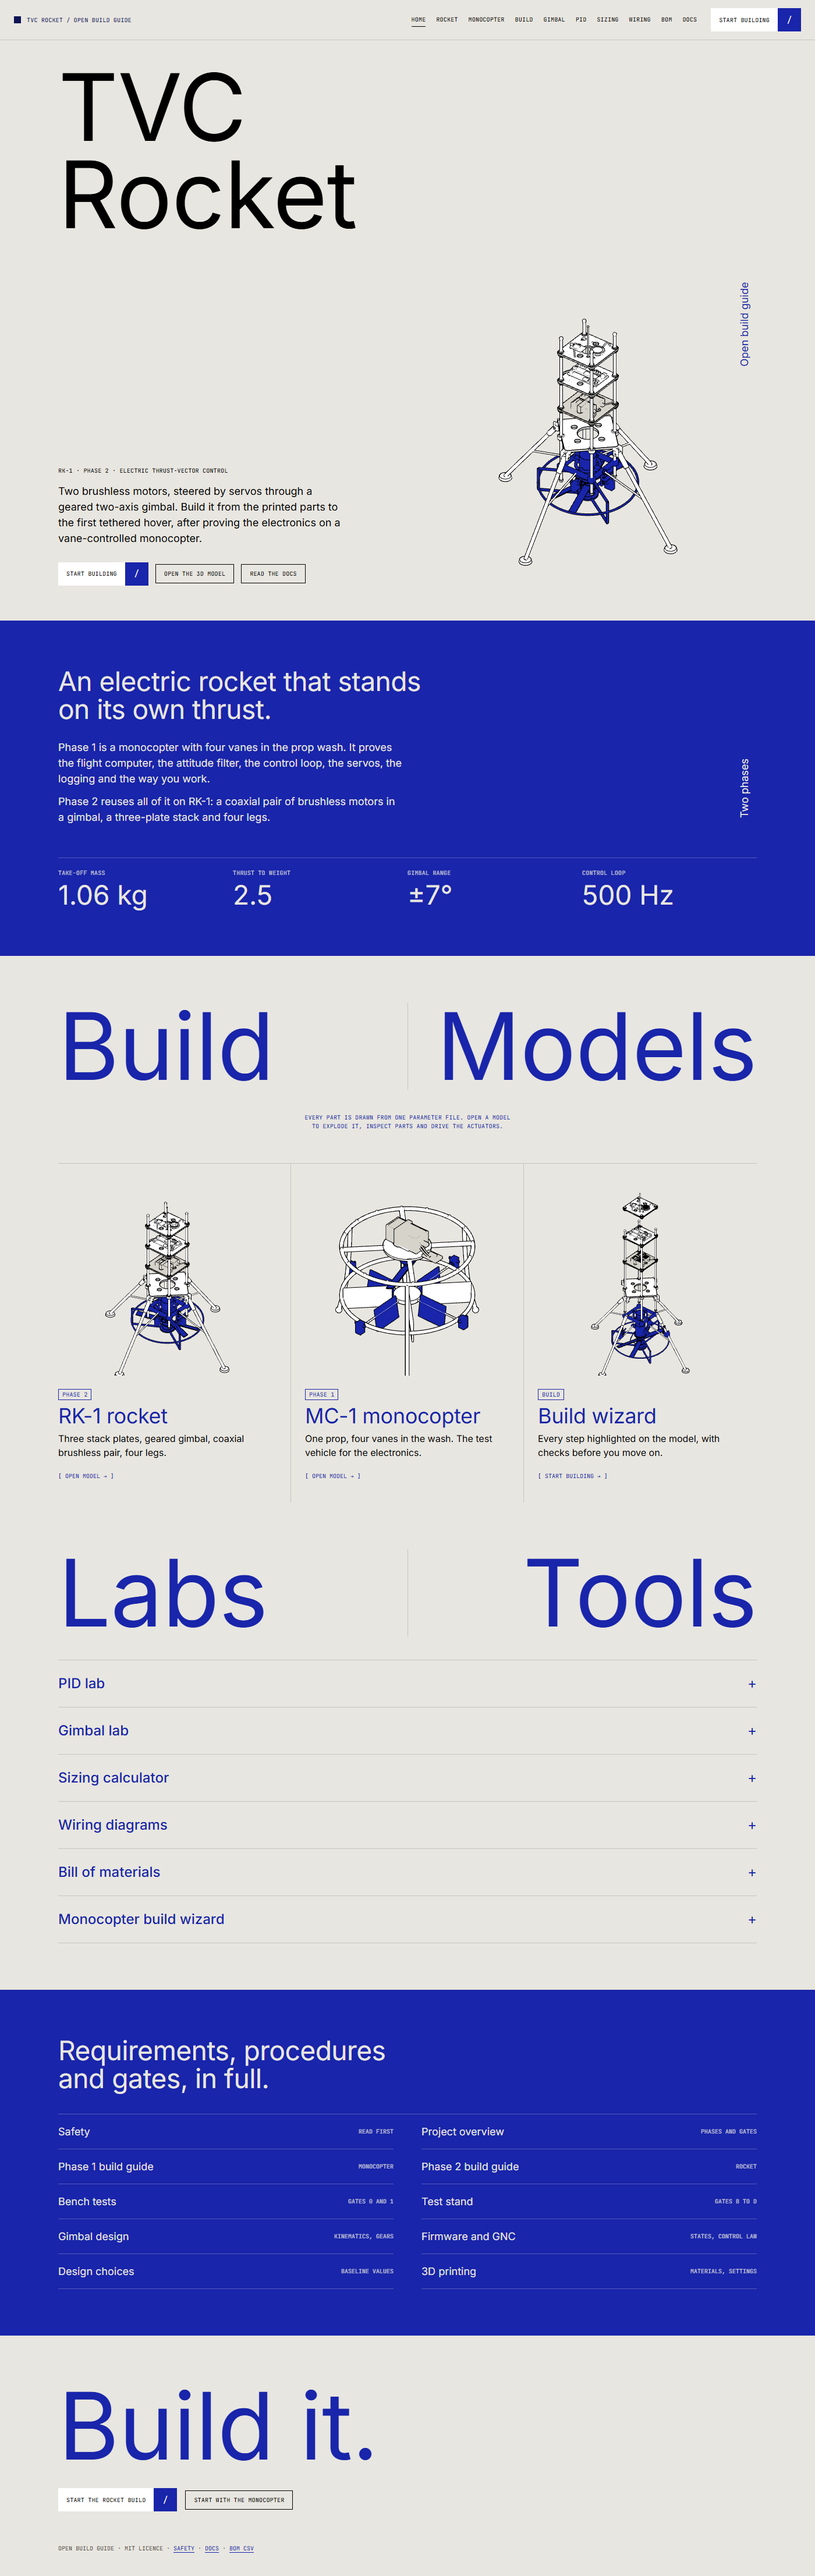
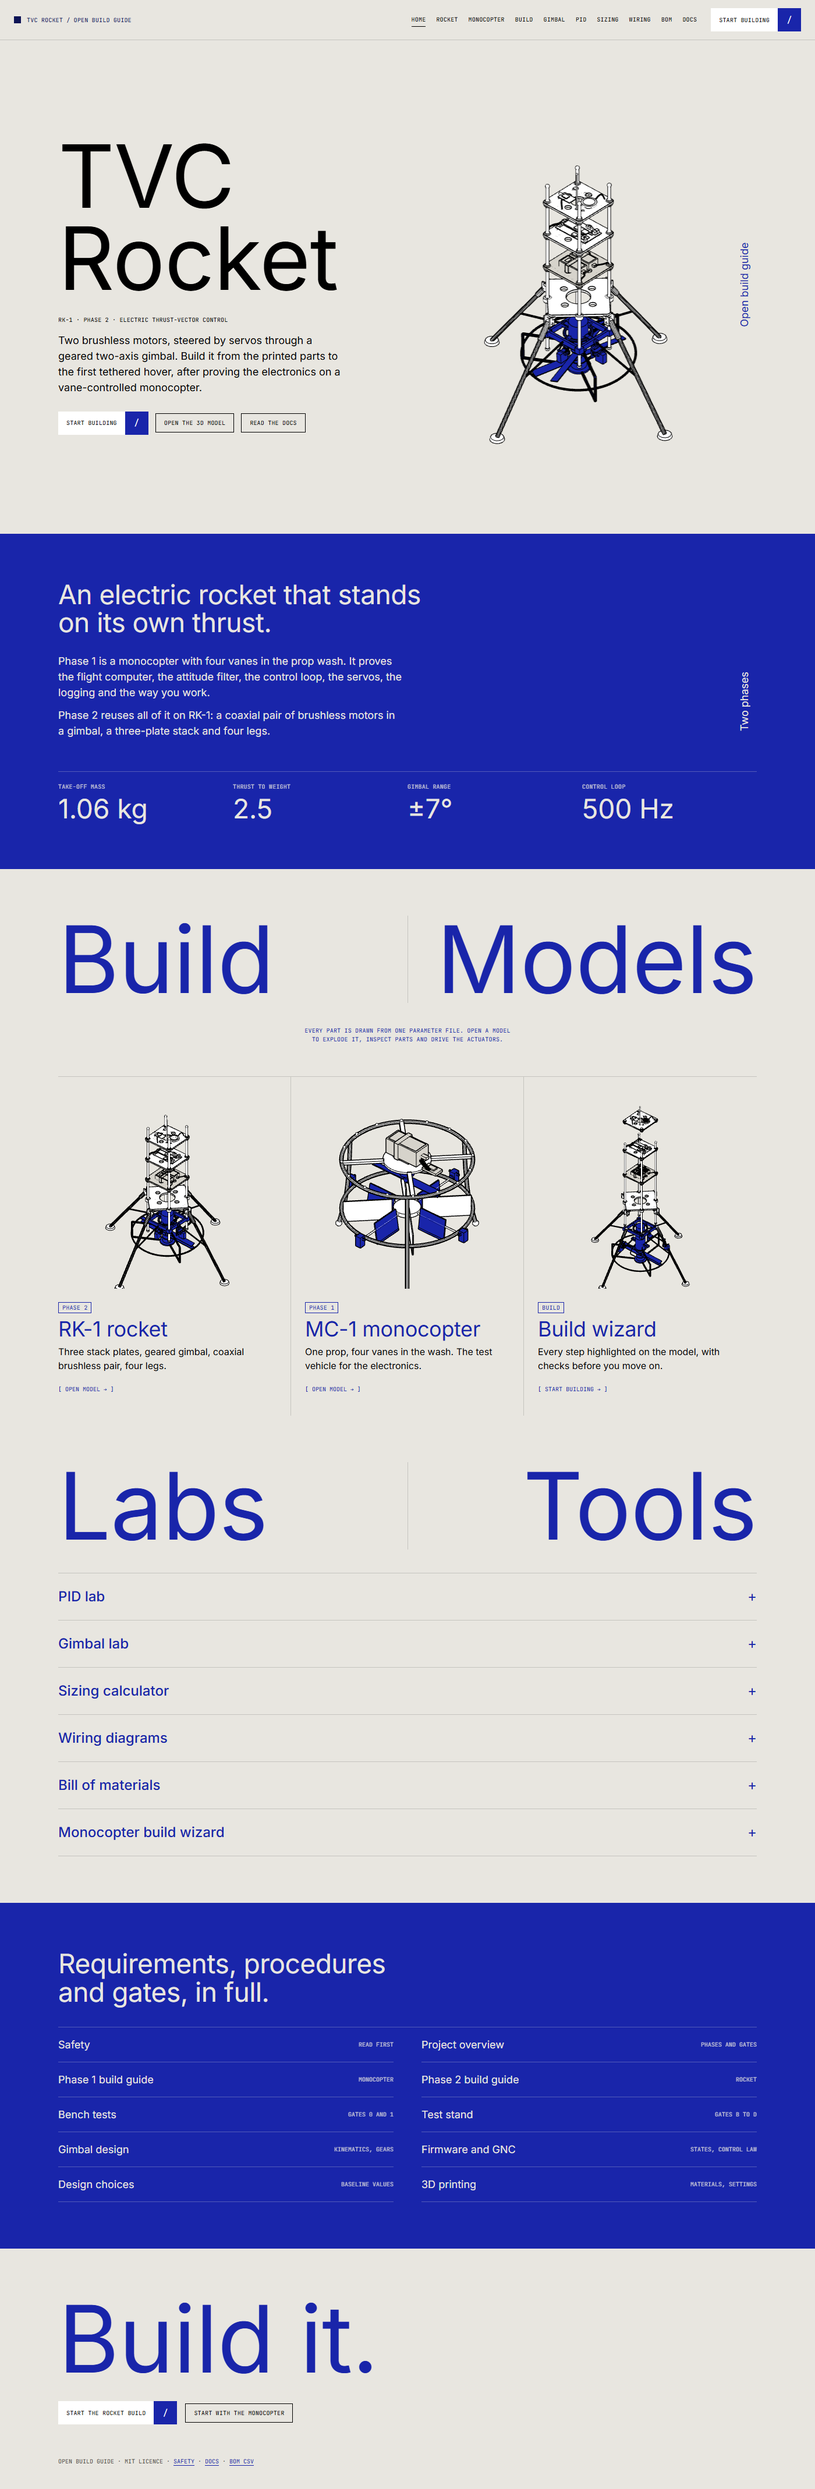
perf: smooth home page; hero beside headline; free viewer camera
- Home drawings render only when visible; cards render once; hero capped at 24 fps; lighter geometry for the drawings
- Hero model sits beside the headline
- Viewer: orbit below the ground, pan, zoom to cursor, focus on the selected part, quick views (gimbal, motors, underside, stack)

diff --git a/index.html b/index.html
@@ -23,21 +23,19 @@
 </header>
 
 <section class="band hero">
-  <div class="in">
-    <h1 class="display">TVC<br>Rocket</h1>
-    <div class="side-label">Open build guide</div>
-    <div class="hero-grid">
-      <div>
-        <div class="mono">RK-1 · Phase 2 · electric thrust-vector control</div>
-        <p class="lede">Two brushless motors, steered by servos through a geared two-axis gimbal. Build it from the printed parts to the first tethered hover, after proving the electronics on a vane-controlled monocopter.</p>
-        <div class="actions">
-          <a class="cta" href="web/assembly.html?model=rocket">Start building<i>/</i></a>
-          <a class="btn" href="web/rocket.html">Open the 3D model</a>
-          <a class="btn" href="web/doc.html?p=docs/README.md">Read the docs</a>
-        </div>
+  <div class="in hero-row">
+    <div class="hero-copy">
+      <h1 class="display">TVC<br>Rocket</h1>
+      <div class="mono">RK-1 · Phase 2 · electric thrust-vector control</div>
+      <p class="lede">Two brushless motors, steered by servos through a geared two-axis gimbal. Build it from the printed parts to the first tethered hover, after proving the electronics on a vane-controlled monocopter.</p>
+      <div class="actions">
+        <a class="cta" href="web/assembly.html?model=rocket">Start building<i>/</i></a>
+        <a class="btn" href="web/rocket.html">Open the 3D model</a>
+        <a class="btn" href="web/doc.html?p=docs/README.md">Read the docs</a>
       </div>
-      <div class="iso-hero" id="hero"></div>
     </div>
+    <div class="iso-hero" id="hero"></div>
+    <div class="side-label">Open build guide</div>
   </div>
 </section>
 
@@ -122,6 +120,7 @@
 
 <script type="module">
 import { createIsoStage } from './src/common/iso.js';
+import { setQuality } from './src/common/kit.js';
 import { buildRocket } from './src/models/rocket.js';
 import { buildMonocopter } from './src/models/monocopter.js';
 
@@ -129,18 +128,19 @@ document.querySelectorAll('.acc-item > button').forEach((b) => b.addEventListene
   const it = b.parentElement; const open = it.classList.toggle('open'); b.querySelector('i').textContent = open ? '×' : '+';
 }));
 
+setQuality(0.5);
 const rocket = () => { const m = buildRocket(); m.setGimbal(4, -3); m.setThrottle(0.4); return m; };
 let ready = 0;
 const mark = () => { if (++ready === 4) window.__ready = true; };
-createIsoStage(document.getElementById('hero'), rocket(), { azimuth: 38, spin: 3, zoom: 1.35, outline: 1.2, hide: ['test-stand'], target: [0, 275, 0] });
+createIsoStage(document.getElementById('hero'), rocket(), { azimuth: 38, spin: 4, fps: 24, zoom: 1.6, outline: 0.9, hide: ['test-stand'], target: [0, 275, 0] });
 mark();
 const make = (el, kind) => {
-  if (kind === 'rocket') return createIsoStage(el, rocket(), { azimuth: 40, zoom: 1.6, hide: ['test-stand'], target: [0, 275, 0] });
+  if (kind === 'rocket') return createIsoStage(el, rocket(), { azimuth: 40, zoom: 1.6, isStatic: true, maxDpr: 1.5, hide: ['test-stand'], target: [0, 275, 0] });
   if (kind === 'monocopter') {
     const m = buildMonocopter(); m.setThrottle(0.3); m.setControl({ roll: 0.4, pitch: -0.25, yaw: 0.1 });
-    return createIsoStage(el, m, { azimuth: 40, zoom: 1.45, target: [0, 135, 0] });
+    return createIsoStage(el, m, { azimuth: 40, zoom: 1.45, isStatic: true, maxDpr: 1.5, target: [0, 135, 0] });
   }
-  return createIsoStage(el, rocket(), { azimuth: 40, explode: 0.75, zoom: 1.5, hide: ['test-stand'], target: [0, 270, 0] });
+  return createIsoStage(el, rocket(), { azimuth: 40, explode: 0.75, zoom: 1.5, isStatic: true, maxDpr: 1.5, hide: ['test-stand'], target: [0, 270, 0] });
 };
 document.querySelectorAll('[data-iso]').forEach((el) => { make(el, el.dataset.iso); mark(); });
 </script>

diff --git a/src/common/viewer-app.js b/src/common/viewer-app.js
@@ -35,7 +35,9 @@ export function mountViewer({ model: id, stageEl, leftEl, rightEl }) {
       <button id="xray">X-ray others</button>
       <button id="spin">Turntable</button>
       <button id="reset">Reset camera</button>
-    </div>`;
+    </div>
+    <h3>Quick views</h3>
+    <div class="btn-row" id="views"></div>`;
   const ul = $('#plist', leftEl);
   for (const p of list) {
     const li = document.createElement('li');
@@ -62,6 +64,7 @@ export function mountViewer({ model: id, stageEl, leftEl, rightEl }) {
       ? `<h4>${p.name}</h4><div>${p.desc}</div><div class="meta">Category: ${p.category}${p.cad ? ` · CAD: <code>${p.cad}</code>` : ''} · id: <code>${p.id}</code></div>`
       : '<h4>Nothing selected</h4><div>Click a part in the list or in the 3D view.</div>';
     applyXray();
+    if (pid && !shot) focusPart(pid);
   }
   function applyXray() {
     for (const p of list) m.parts.setGhost(p.id, xray && selected && p.id !== selected);
@@ -77,6 +80,35 @@ export function mountViewer({ model: id, stageEl, leftEl, rightEl }) {
   $('#spin', leftEl).addEventListener('click', (e) => { spin = !spin; e.target.classList.toggle('on', spin); stage.controls.autoRotate = spin; stage.controls.autoRotateSpeed = 1.6; });
   const home = { pos: stage.camera.position.toArray(), tgt: stage.controls.target.toArray() };
   $('#reset', leftEl).addEventListener('click', () => stage.setView(home.pos, home.tgt));
+
+  // smooth camera moves: focus a part, or jump to a preset view (the camera is free: pan, orbit below the ground, zoom to cursor)
+  let goal = null;
+  stage.controls.addEventListener('start', () => { goal = null; });
+  stage.onTick(() => {
+    if (!goal) return;
+    stage.controls.target.lerp(goal.t, 0.14);
+    stage.camera.position.lerp(goal.pos, 0.14);
+    if (stage.camera.position.distanceTo(goal.pos) < 0.6 && stage.controls.target.distanceTo(goal.t) < 0.6) goal = null;
+  });
+  const V3 = stage.THREE.Vector3;
+  function focusPart(pid) {
+    const p = m.parts.get(pid); if (!p) return;
+    const box = new stage.THREE.Box3().setFromObject(p.group);
+    if (box.isEmpty()) return;
+    const c = box.getCenter(new V3()), size = box.getSize(new V3()).length();
+    const dir = stage.camera.position.clone().sub(stage.controls.target).normalize();
+    goal = { t: c, pos: c.clone().addScaledVector(dir, Math.max(size * 1.9, 110)) };
+  }
+  function viewOf(pid, dirVec, dist) {
+    const p = m.parts.get(pid); const box = new stage.THREE.Box3().setFromObject(p ? p.group : m.root);
+    const c = box.getCenter(new V3());
+    goal = { t: c, pos: c.clone().add(new V3(...dirVec).normalize().multiplyScalar(dist || box.getSize(new V3()).length() * 1.9)) };
+  }
+  const views = isRocket
+    ? [['Overview', () => { goal = { t: new V3(...home.tgt), pos: new V3(...home.pos) }; }], ['Gimbal', () => viewOf('tvc', [1, 0.5, 1.1], 330)], ['Motors', () => viewOf('motor', [1, 0.35, 1.1], 520)], ['Underside', () => viewOf('motor', [0.9, -0.55, 1], 650)], ['Stack', () => viewOf('pcb-frame', [1, 0.4, 1.1], 700)]]
+    : [['Overview', () => { goal = { t: new V3(...home.tgt), pos: new V3(...home.pos) }; }], ['Vanes', () => viewOf('vanes', [1, 0.5, 1.1], 330)], ['Underside', () => viewOf('vanes', [0.9, -0.55, 1], 480)], ['Top', () => viewOf('battery', [1, 0.6, 1.1], 330)]];
+  const vbox = $('#views', leftEl);
+  views.forEach(([label, fn]) => { const b = document.createElement('button'); b.textContent = label; b.onclick = fn; vbox.appendChild(b); });
 
   // click picking
   const ray = new stage.THREE.Raycaster(); const mouse = new stage.THREE.Vector2();

diff --git a/src/common/kit.js b/src/common/kit.js
@@ -21,27 +21,29 @@ export const MAT = {
   glow:    new THREE.MeshBasicMaterial({ color: 0xbfe6ff }),
 };
 
+let Q = 1;
+export const setQuality = (q) => { Q = q; };
 const shadowed = (m) => { m.castShadow = true; m.receiveShadow = true; return m; };
 
 export function box(w, h, d, mat = MAT.print, x = 0, y = 0, z = 0) {
   const r = Math.min(0.9, Math.min(w, h, d) / 2.4);
-  const m = shadowed(new THREE.Mesh(new RoundedBoxGeometry(w, h, d, 3, r), mat));
+  const m = shadowed(new THREE.Mesh(new RoundedBoxGeometry(w, h, d, Q < 1 ? 1 : 3, r), mat));
   m.position.set(x, y, z);
   return m;
 }
 export function cyl(rTop, rBot, h, mat = MAT.print, seg = 32, x = 0, y = 0, z = 0) {
-  const sg = Math.max(seg, Math.max(rTop, rBot) > 8 ? 72 : 32);
+  const sg = Q < 1 ? Math.max(14, Math.min(seg, 28)) : Math.max(seg, Math.max(rTop, rBot) > 8 ? 72 : 32);
   const m = shadowed(new THREE.Mesh(new THREE.CylinderGeometry(rTop, rBot, h, sg), mat));
   m.position.set(x, y, z);
   return m;
 }
 export function torus(R, r, mat = MAT.print, seg = 64) {
-  const m = shadowed(new THREE.Mesh(new THREE.TorusGeometry(R, r, 24, Math.max(seg, 128)), mat));
+  const m = shadowed(new THREE.Mesh(new THREE.TorusGeometry(R, r, Q < 1 ? 8 : 24, Q < 1 ? 64 : Math.max(seg, 128)), mat));
   m.rotation.x = Math.PI / 2; // lay flat (axis = Y)
   return m;
 }
 export function sphere(r, mat = MAT.print, x = 0, y = 0, z = 0) {
-  const m = shadowed(new THREE.Mesh(new THREE.SphereGeometry(r, 40, 24), mat));
+  const m = shadowed(new THREE.Mesh(new THREE.SphereGeometry(r, Q < 1 ? 14 : 40, Q < 1 ? 9 : 24), mat));
   m.position.set(x, y, z);
   return m;
 }
@@ -49,14 +51,14 @@ export function sphere(r, mat = MAT.print, x = 0, y = 0, z = 0) {
 export function strut(a, b, r = 2, mat = MAT.print, seg = 12) {
   const va = new THREE.Vector3(...a), vb = new THREE.Vector3(...b);
   const len = va.distanceTo(vb);
-  const m = shadowed(new THREE.Mesh(new THREE.CylinderGeometry(r, r, len, Math.max(seg, 28)), mat));
+  const m = shadowed(new THREE.Mesh(new THREE.CylinderGeometry(r, r, len, Q < 1 ? 12 : Math.max(seg, 28)), mat));
   m.position.copy(va).add(vb).multiplyScalar(0.5);
   m.quaternion.setFromUnitVectors(new THREE.Vector3(0, 1, 0), vb.clone().sub(va).normalize());
   return m;
 }
 export function tubeAlong(points, r = 3, mat = MAT.print) {
   const curve = new THREE.CatmullRomCurve3(points.map((p) => new THREE.Vector3(...p)));
-  return shadowed(new THREE.Mesh(new THREE.TubeGeometry(curve, 80, r, 20, false), mat));
+  return shadowed(new THREE.Mesh(new THREE.TubeGeometry(curve, Q < 1 ? 24 : 80, r, Q < 1 ? 8 : 20, false), mat));
 }
 
 // Involute-ish spur gear (flat teeth) as an extruded shape. Axis = Z of the shape; thickness = t.

diff --git a/src/common/iso.js b/src/common/iso.js
@@ -21,11 +21,11 @@ export function createIsoStage(container, model, opts = {}) {
     ink = 0x000000, fill = 0xffffff, accent = 0x1925aa, sulfur = 0xd6d3cb,
     accentCats = ['actuation', 'propulsion'], sulfurCats = ['power'],
     visible = null, hide = [], explode = 0, azimuth = 45, spin = 0, zoom = 1, outline = 1.1, edgeAngle = 28,
-    bg = null, pad = 1.12,
+    bg = null, pad = 1.12, isStatic = false, fps = 24, maxDpr = 2,
   } = opts;
 
   const renderer = new THREE.WebGLRenderer({ antialias: true, alpha: true, preserveDrawingBuffer: !!opts.preserve });
-  renderer.setPixelRatio(Math.min(window.devicePixelRatio || 1, 2));
+  renderer.setPixelRatio(Math.min(window.devicePixelRatio || 1, maxDpr));
   if (bg === null) renderer.setClearColor(0x000000, 0); else renderer.setClearColor(bg, 1);
   container.appendChild(renderer.domElement);
   const scene = new THREE.Scene();
@@ -89,17 +89,25 @@ export function createIsoStage(container, model, opts = {}) {
   };
   fit();
   place(az);
-  window.addEventListener('resize', () => { fit(); renderer.render(scene, cam); });
 
-  let running = true, last = performance.now();
+  let running = true, last = performance.now(), inView = true;
+  const draw = () => renderer.render(scene, cam);
+  if ('IntersectionObserver' in window) {
+    new IntersectionObserver((es) => { inView = es[0].isIntersecting; if (inView) draw(); }).observe(container);
+  }
+  window.addEventListener('resize', () => { fit(); draw(); });
+  draw();
   const tick = (now) => {
     if (!running) return;
-    const dt = Math.min((now - last) / 1000, 0.05); last = now;
+    requestAnimationFrame(tick);
+    if (isStatic || !inView || document.hidden) return;
+    const el = now - last;
+    if (el < 1000 / fps) return;
+    const dt = Math.min(el / 1000, 0.1); last = now;
     if (spin) { az += spin * dt; place(az); }
     if (model.update) model.update(dt, now / 1000);
-    renderer.render(scene, cam);
-    requestAnimationFrame(tick);
+    draw();
   };
-  requestAnimationFrame(tick);
+  if (!isStatic) requestAnimationFrame(tick);
   return { renderer, camera: cam, stop: () => { running = false; }, render: () => renderer.render(scene, cam) };
 }

diff --git a/web/style.css b/web/style.css
@@ -231,3 +231,9 @@ body.shot .topbar, body.shot .side, body.shot .hint, body.shot .badge { display:
 body.shot .app, body.shot .app.two { display: block; }
 body.shot .stage { height: 100vh; }
 .wizard .badge b { font-size: 24px; }
+
+.hero-row { display: grid; grid-template-columns: 1.05fr .95fr; gap: 24px; align-items: center; padding-right: 36px; }
+.hero-row .display { font-size: clamp(64px, 11.2vw, 150px); margin-bottom: 28px; }
+.hero-row .iso-hero { height: min(84vh, 760px); min-height: 480px; }
+.hero { padding-bottom: 48px; }
+@media (max-width: 1100px) { .hero-row { grid-template-columns: 1fr; padding-right: 0; } .hero-row .iso-hero { height: 440px; min-height: 0; } }

diff --git a/src/common/stage.js b/src/common/stage.js
@@ -42,8 +42,11 @@ export function createStage(container, opts = {}) {
   controls.target.set(...target);
   controls.enableDamping = true;
   controls.dampingFactor = 0.08;
-  controls.maxPolarAngle = Math.PI * 0.495;
-  controls.minDistance = 120;
+  controls.maxPolarAngle = Math.PI * 0.985;
+  controls.screenSpacePanning = true;
+  controls.zoomToCursor = true;
+  controls.panSpeed = 1.2;
+  controls.minDistance = 25;
   controls.maxDistance = 3500;
   controls.update();
 
